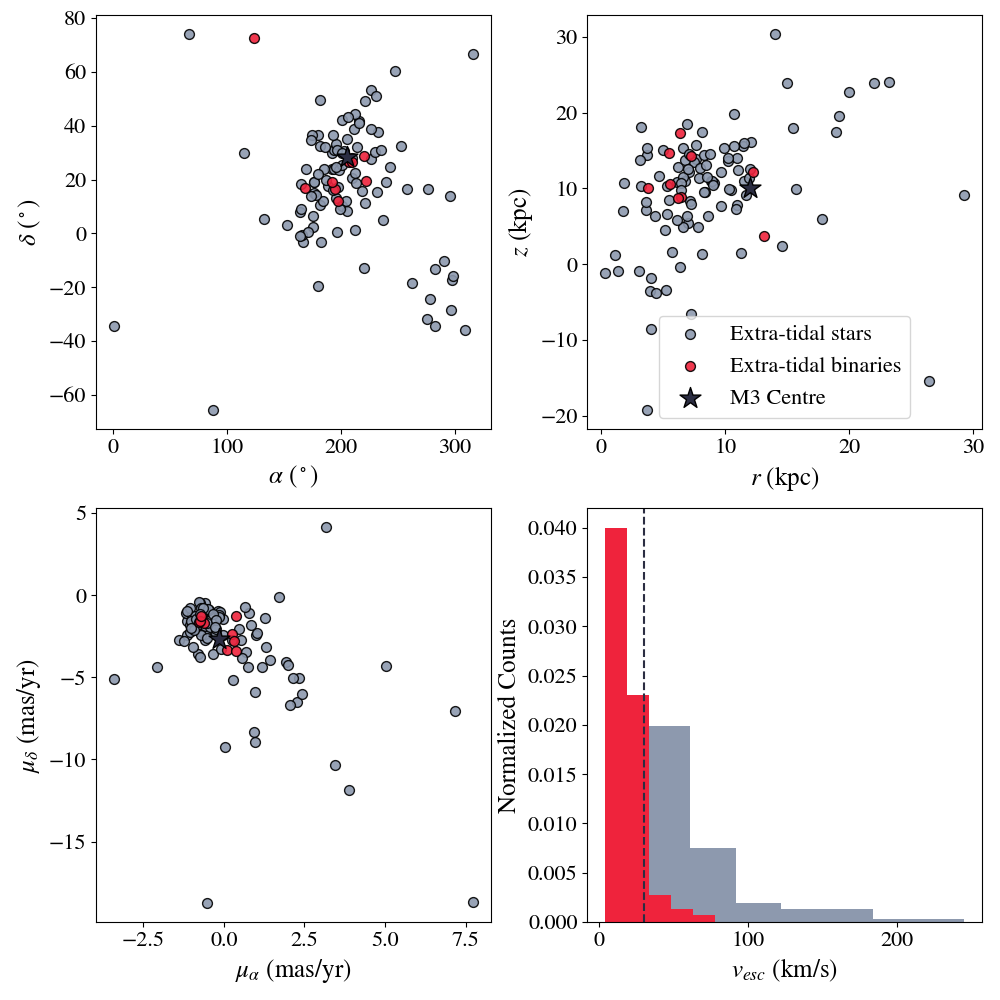
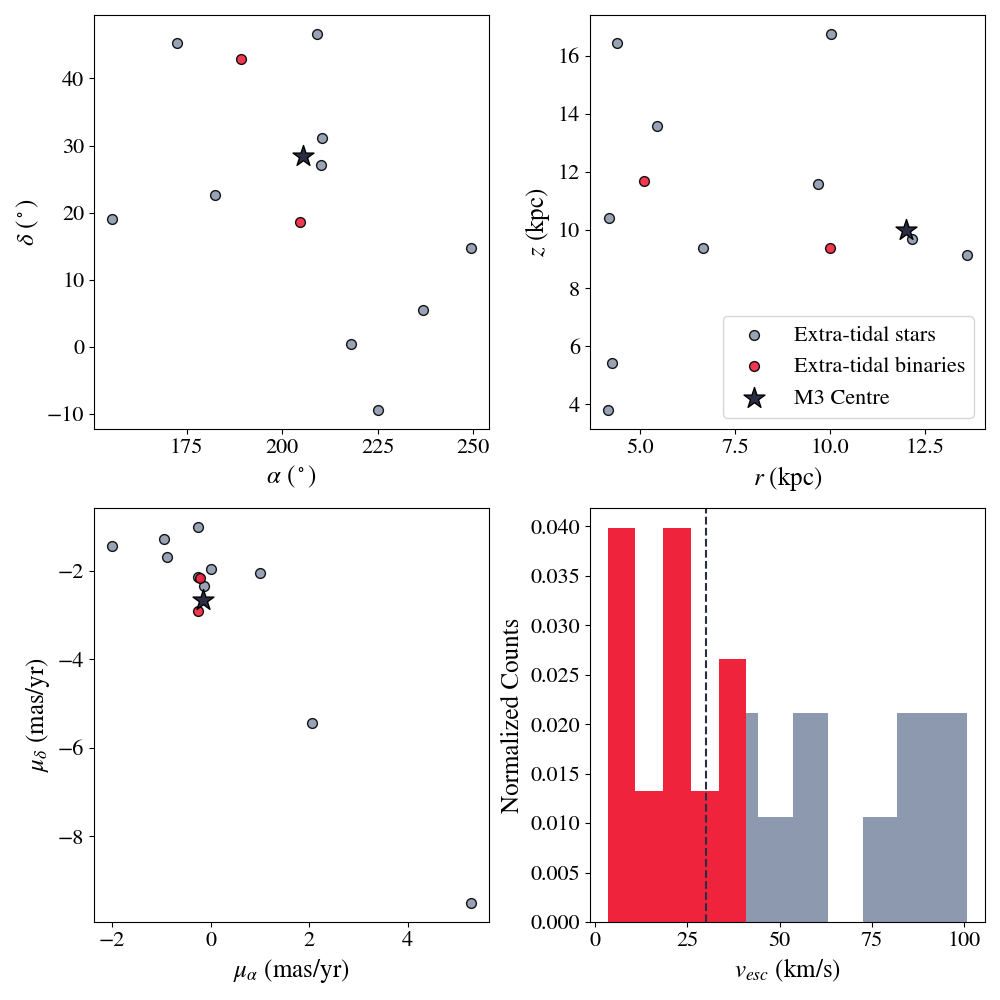
added plots from before winter break

diff --git a/group_folders/Ritik's files/corespraydf (Ritik's comments).py b/group_folders/Ritik's files/corespraydf (Ritik's comments).py
@@ -17,6 +17,10 @@ import numpy as np
 import matplotlib.pyplot as plt
 from matplotlib import animation
 
+""" The following file contains comments made by Ritik as notes taken that 
+    analyze the corespray code.
+"""
+
 
 class corespraydf(object):
     """ A class for initializing a distribution function for stars that are
@@ -25,7 +29,6 @@ class corespraydf(object):
 	boundary and twice the contact boundary between two solar mass stars
 	Parameters
 	----------
-
 	gcorbit : string or galpy orbit instance
 		Name of Galactic Globular Cluster from which to simulate core ejection
 		or a Galpy orbit instance
@@ -44,18 +47,23 @@ class corespraydf(object):
 		galpy length scaling parameter (default: 8.)
 	vo : float
 		galpy velocity scaling parameter (default: 220.)
+	verbose : bool
+			print additional information to screen (default: False)
 
 	History
 	-------
-	2021 - Written - Grandin (UofT)
+	2021 - Written - Grondin (UofT)
 
 	"""
 
+    # initializing corespray parameters
     def __init__(self, gcorbit, pot=MWPotential2014, mgc=None, rgc=None,
                  W0=None, ro=8., vo=220., verbose=False):
 
+        # determines whether given GC is named or not
         if isinstance(gcorbit, str):
             self.gcname = gcorbit
+        # not quite sure what the parameter 'o' is in this case
             self.o = Orbit.from_name(self.gcname, ro=ro, vo=vo,
                                      solarmotion=[-11.1, 24.0, 7.25])
         else:
@@ -63,16 +71,23 @@ class corespraydf(object):
             self.o = gcorbit
 
         self.ro, self.vo = ro, vo
+        # initial age and mass of GC
         self.to = conversion.time_in_Gyr(ro=self.ro, vo=self.vo) * 1000.
         self.mo = conversion.mass_in_msol(ro=self.ro, vo=self.vo)
 
         self.mwpot = pot
 
+        # if the GC has no mass then it cannot have a potential either
         if mgc is None:
             self.gcpot = None
         else:
             if W0 is None:
+                # why is ra the result of dividing the half mass radius of the
+                # GC by 1.3?
                 ra = rgc / 1.3
+                # As mentioned earlier, W0 is PlummerPotential if W0 = None
+                # PlummerPotential and KingPotential are both functions from the
+                # galpy package
                 self.gcpot = PlummerPotential(mgc / self.mo, ra / self.ro,
                                               ro=self.ro, vo=self.vo)
             else:
@@ -80,6 +95,8 @@ class corespraydf(object):
                                            ro=self.ro, vo=self.vo)
 
         self.binaries = False
+
+# -----------------------------------------------------------------------------
 
     def sample_three_body(self, tdisrupt=1000., rate=1., nstar=None, mu0=0.,
                           sig0=10.0, vesc0=10.0, rho0=1., mmin=0.1, mmax=1.4,
@@ -90,7 +107,6 @@ class corespraydf(object):
 
 		Parameters
 		----------
-
 		tdisrupt : float
 			time over which sampling begins (Myr)
 		rate : float
@@ -101,17 +117,21 @@ class corespraydf(object):
 		mu0 : float
 			average 1D velocity in the core (default: 0 km/s)
 		sig0 : float
-			avarege 1D velocity disperions in the core (default 10.0 km/s)
+			average 1D velocity dispersions in the core (default 10.0 km/s)
 		vesc0 : float
 			escape velocity from the core (default: 10.0 km/s)
 		rho0 : float
 			core density (default: 1 Msun/pc^3)
+
+---------- the below parameters are not used in this function --------------
+
 		mgc : float
 			globular cluster mass - needed if cluster's potential is to be
 			included in orbit integration of escapers (default: None)
 		rgc : float
 			half-mass radius of globular cluster (assuming Plummer potential)
-			or tidal radius of globular cluster (assuming King potential) (default: None)
+			or tidal radius of globular cluster (assuming King potential)
+			(default: None)
 		W0 : float
 			King central potential parameter (default: None, which results in
 			cluster potential taken to be a Plummer)
@@ -149,7 +169,7 @@ class corespraydf(object):
 
 		History
 		-------
-		2021 - Written - Grandin/Webb (UofT)
+		2021 - Written - Grondin/Webb (UofT)
 
 		"""
 
@@ -175,15 +195,18 @@ class corespraydf(object):
         if self.gcpot is None:
             self.pot = self.mwpot
         else:
+            # galpy function that returns None
             moving_pot = MovingObjectPotential(self.o, self.gcpot, ro=self.ro,
                                                vo=self.vo)
             self.pot = [self.mwpot, moving_pot]
+
+# -----------------------------------------------------------------------------
 
         self.mu0, self.sig0, self.vesc0, self.rho0 = mu0, sig0, vesc0, rho0
 
         self.mmin, self.mmax, self.alpha = mmin, mmax, alpha
 
-        # Mean separation of star's in the core equal to twice the radius of a
+        # Mean separation of stars in the core equal to twice the radius of a
         # sphere that contains one star
         # Assume all stars in the core have mass equal to the mean mass
         masses = self._power_law_distribution_function(1000, self.alpha,
@@ -192,12 +215,11 @@ class corespraydf(object):
         self.rsep = ((self.mbar / self.rho0) / (4. * np.pi / 3.)) ** (1. / 3.)
 
         # Limits of binary energy distribution
-        # If emin and emax are None, assume limits are between twice the
-        # hard-soft boundary and twice the contact boundary between two solar
-		# mass stars
+        # If emin and emax (minimum/maximum binary energy) are None,
+        # assume limits are between twice the hard-soft boundary and
+        # twice the contact boundary between two solar mass stars
 
         if emin is None:
-
             a_hs = grav * self.mbar / (sig0 ** 2.)  # pc
             a_max = 2. * a_hs
             e_min = grav * (self.mbar ** 2.) / (2.0 * a_max)  # Msun (km/s)**2
@@ -276,6 +298,10 @@ class corespraydf(object):
 
                 vs = self._sample_escape_velocity(e0, ms, mb, npeak)
 
+# ----------------------------------------------------------------------------
+# this code samples an escaper and a binary
+# Ritik will be sampling two binaries
+
                 if vs > self.vesc0:
 
                     self.vesc = np.append(self.vesc, vs)
@@ -286,7 +312,8 @@ class corespraydf(object):
 
                     if binaries:
                         # Check to see if recoil binary will also escape
-                        # Binary kick velocity is calculated assuming total linear momentum of system sums to zero
+                        # Binary kick velocity is calculated assuming total
+                        # linear momentum of system sums to zero
 
                         pxi = ms * vxs + mb * vxb
                         pyi = ms * vys + mb * vyb
@@ -315,6 +342,7 @@ class corespraydf(object):
                 if verbose:
                     print('DEBUG: ', nescape, prob, vs, self.vesc0)
 
+        # PyCharm says the below variables are not used anywhere
         Re0, phie0, ze0, vRe0, vTe0, vze0 = np.array([]), np.array(
             []), np.array([]), np.array([]), np.array([]), np.array([])
 
@@ -352,14 +380,16 @@ class corespraydf(object):
                 [os.R(0.) / self.ro, os.vR(0.) / self.vo, os.vT(0.) / self.vo,
                  os.z(0.) / self.ro, os.vz(0.) / self.vo, os.phi(0.)])
 
-        # Save initial and final positions and velocities of kicked stars at t=0 in orbit objects
+        # Save initial and final positions and velocities
+        # of kicked stars at t=0 in orbit objects
         self.oi = Orbit(vxvv_i, ro=self.ro, vo=self.vo,
                         solarmotion=[-11.1, 24.0, 7.25])
         self.of = Orbit(vxvv_f, ro=self.ro, vo=self.vo,
                         solarmotion=[-11.1, 24.0, 7.25])
 
         if binaries:
-            # Integrate orbits of binary star with kick velocities greater than the cluster's escape speed:
+            # Integrate orbits of binary star with kick velocities
+            # greater than the cluster's escape speed:
             # Initial and final positions and velocities
             vxvvb_i = []
             vxvvb_f = []
@@ -383,7 +413,8 @@ class corespraydf(object):
                     [Ri / self.ro, vRi / self.vo, vTi / self.vo, zi / self.ro,
                      vzi / self.vo, phii])
 
-                # Integrate orbit from tesc to 0. if kick velocity is higher than cluster's escape velocity
+                # Integrate orbit from tesc to 0. if kick velocity is
+                # higher than cluster's escape velocity
 
                 if self.bindx[i]:
                     os = Orbit(vxvvb_i[-1], ro=self.ro, vo=self.vo,
@@ -410,9 +441,12 @@ class corespraydf(object):
         else:
             return self.of
 
+# ------------------------------------------------------------------------------
+
+    # probability of a three body escaper
     def _prob_three_body_escape(self, ms, m_a, m_b, q):
 
-        # Equation 7.23
+        # Equation 7.23 (eqn 1 from 3-body paper)
         prob = (ms ** q) / (ms ** q + m_a ** q + m_b ** q)
         return prob
 
@@ -430,7 +464,7 @@ class corespraydf(object):
             n = len(mb1)
 
         ebin_si = self._power_law_distribution_function(n, alpha, emin,
-                                                        emax)  # Joules = kg (m/s)^2
+                                                        emax) # Joules = kg (m/s)^2
         ebin = ebin_si / 1.9891e30  # Msun (m/s)^2
         ebin /= (1000.0 * 1000.0)  # Msun (km/s)^2
 
@@ -442,7 +476,8 @@ class corespraydf(object):
 
         return ebin, semi
 
-    def _sample_escape_velocity(self, e0, ms, mb, npeak=5):
+    # return type float
+    def _sample_escape_velocity(self, e0, ms, mb, npeak=5.):
         # randomly sample between npeak*vs_peak
 
         vs_peak = self._escape_velocity_distribution_peak(e0, ms, mb)
@@ -459,14 +494,15 @@ class corespraydf(object):
         return vs
 
     def _escape_velocity_distribution(self, vs, e0, ms, mb):
-        # Equation 7.19
+        # Equation 7.19 (eqn 3 from 3-body paper)
         M = ms + mb
         fv = (3.5 * (np.fabs(e0) ** (7. / 2.)) * ms * M / mb) * vs / (
-                (np.fabs(e0) + 0.5 * (ms * M / mb) * (vs ** 2.)) ** (
-                9. / 2.))
+                (np.fabs(e0) + 0.5 * (ms * M / mb) * (vs ** 2.)) **
+                (9. / 2.))
         return fv
 
     def _escape_velocity_distribution_peak(self, e0, ms, mb):
+        # Equation 4 from 3-body paper
         M = ms + mb
         vs_peak = 0.5 * np.sqrt((M - ms) / (ms * M)) * np.sqrt(np.fabs(e0))
 
@@ -474,7 +510,8 @@ class corespraydf(object):
 
     def sample_uniform(self, tdisrupt=1000., rate=1., nstar=None, vmin=0.,
                        vmax=500., verbose=False):
-        """ A function for sampling a uniform core ejection distribution function
+        """ A function for sampling a uniform core ejection distribution
+        function
 
 		Parameters
 		----------
@@ -484,7 +521,8 @@ class corespraydf(object):
 		rate : float
 			ejection rate (default 1 per Myr)
 		nstar : float
-			if set, nstar stars will be ejected randomly from tdisrupt to 0 Myr. Rate is recalculated. (default : None)
+			if set, nstar stars will be ejected randomly from tdisrupt to 0 Myr.
+			Rate is recalculated. (default : None)
 		vmin : float
 			minimum kick velocity
 		vmax : float
@@ -573,7 +611,8 @@ class corespraydf(object):
                 [os.R(0.) / self.ro, os.vR(0.) / self.vo, os.vT(0.) / self.vo,
                  os.z(0.) / self.ro, os.vz(0.) / self.vo, os.phi(0.)])
 
-        # Save initial and final positions and velocities of kicked stars at t=0 in orbit objects
+        # Save initial and final positions and velocities of
+        # kicked stars at t=0 in orbit objects
         self.oi = Orbit(vxvv_i, ro=self.ro, vo=self.vo,
                         solarmotion=[-11.1, 24.0, 7.25])
         self.of = Orbit(vxvv_f, ro=self.ro, vo=self.vo,
@@ -583,7 +622,8 @@ class corespraydf(object):
 
     def sample_gaussian(self, tdisrupt=1000., rate=1., nstar=None, vmean=100.,
                         vsig=10., verbose=False):
-        """ A function for sampling a uniform core ejection distribution function
+        """ A function for sampling a uniform core ejection distribution
+        function
 
 		Parameters
 		----------
@@ -593,7 +633,8 @@ class corespraydf(object):
 		rate : float
 			ejection rate (default 1 per Myr)
 		nstar : float
-			if set, nstar stars will be ejected randomly from tdisrupt to 0 Myr. Rate is recalculated. (default : None)
+			if set, nstar stars will be ejected randomly from tdisrupt to 0 Myr.
+			Rate is recalculated. (default : None)
 		vmean : float
 			average kick velocity
 		vsig : float
@@ -609,7 +650,7 @@ class corespraydf(object):
 
 		History
 		-------
-		2022 - Written - Grandin/Webb (UofT)
+		2022 - Written - Grondin/Webb (UofT)
 
 		"""
 
@@ -682,7 +723,8 @@ class corespraydf(object):
                 [os.R(0.) / self.ro, os.vR(0.) / self.vo, os.vT(0.) / self.vo,
                  os.z(0.) / self.ro, os.vz(0.) / self.vo, os.phi(0.)])
 
-        # Save initial and final positions and velocities of kicked stars at t=0 in orbit objects
+        # Save initial and final positions and velocities of
+        # kicked stars at t=0 in orbit objects
         self.oi = Orbit(vxvv_i, ro=self.ro, vo=self.vo,
                         solarmotion=[-11.1, 24.0, 7.25])
         self.of = Orbit(vxvv_f, ro=self.ro, vo=self.vo,
@@ -765,20 +807,18 @@ class corespraydf(object):
         return self.line, self.pt, self.pt2
 
     def animate(self, frames=100, interval=50, xlim=(-20, 20), ylim=(-20, 20)):
-
         """Animate the ejection of stars from the cluster's core
 
 		Parameters
     	----------
-
     	frames : int
     		number of frames to use for animation (default:100)
 		interval : float
-			time intercal between frames (default: 50 Myr)
+			time interval between frames (default: 50 Myr)
 		xlim : tuple
 			xlimits for figure
 		ylim : tuple
-			ylimts for figure
+			ylimits for figure
 
 	    History
    		-------
@@ -819,7 +859,8 @@ class corespraydf(object):
                                             blit=False)
 
     def snapout(self, filename='corespray.dat', filenameb='coresprayb.dat'):
-        """Output present day positions, velocities, escape times, and escape velocities of stars
+        """Output present day positions, velocities, escape times, and escape
+        velocities of stars
 
 		Parameters
     	----------
@@ -833,6 +874,7 @@ class corespraydf(object):
 	    2021 - Written - Webb (UofT)
 
 	    """
+        # what are these variables?
         R = np.append(self.o.R(0.), self.of.R(0.))
         vR = np.append(self.o.vR(0.), self.of.vR(0.))
         vT = np.append(self.o.vT(0.), self.of.vT(0.))

diff --git a/group_folders/Ritik's files/corespray tutorial (modified M3 parameters).py b/group_folders/Ritik's files/corespray tutorial (modified M3 parameters).py
@@ -19,9 +19,9 @@ plt.rcParams['font.family'] = 'STIXGeneral'
 
 # load in parameters for M3
 gcname = 'M3'  # GC name
-mu0 = 1.  # Average 1D velocity in the core [km/s] (changed 0. -> 1.)
-sig0 = 7.6  # Central 1D velocity dispersion [km/s] (changed 7.6 -> 8.6)
-vesc0 = 30.0  # Central escape velocity [km/s] (changed 30.0 -> 31.0)
+mu0 = 0.  # Average 1D velocity in the core [km/s] (changed 0. -> 1.)
+sig0 = 20.6  # Central 1D velocity dispersion [km/s] (changed 7.6 -> 20.6, not yet)
+vesc0 = 30.0  # Central escape velocity [km/s] (changed 30.0 -> 40.0, not yet)
 logrho0 = 3.67  # Log of central density [Msol / pc^3]
 rho0 = 10.0**3.67  # Core density [Msol / pc^3]
 mgc = 4.06e5  # Mass [solar masses]
@@ -142,7 +142,7 @@ ax[1, 1].set_xlabel(r"$v_{esc}$ (km/s)", fontsize=18)
 ax[1, 1].set_ylabel("Normalized Counts", fontsize=18)
 
 fig.tight_layout()
-plt.savefig("Ritik's M3 plot (modified mu0).png")
+plt.savefig("Ritik's M3 plot (nstars=100, central vel dispersion=20.6).png")
 plt.show()
 
 
